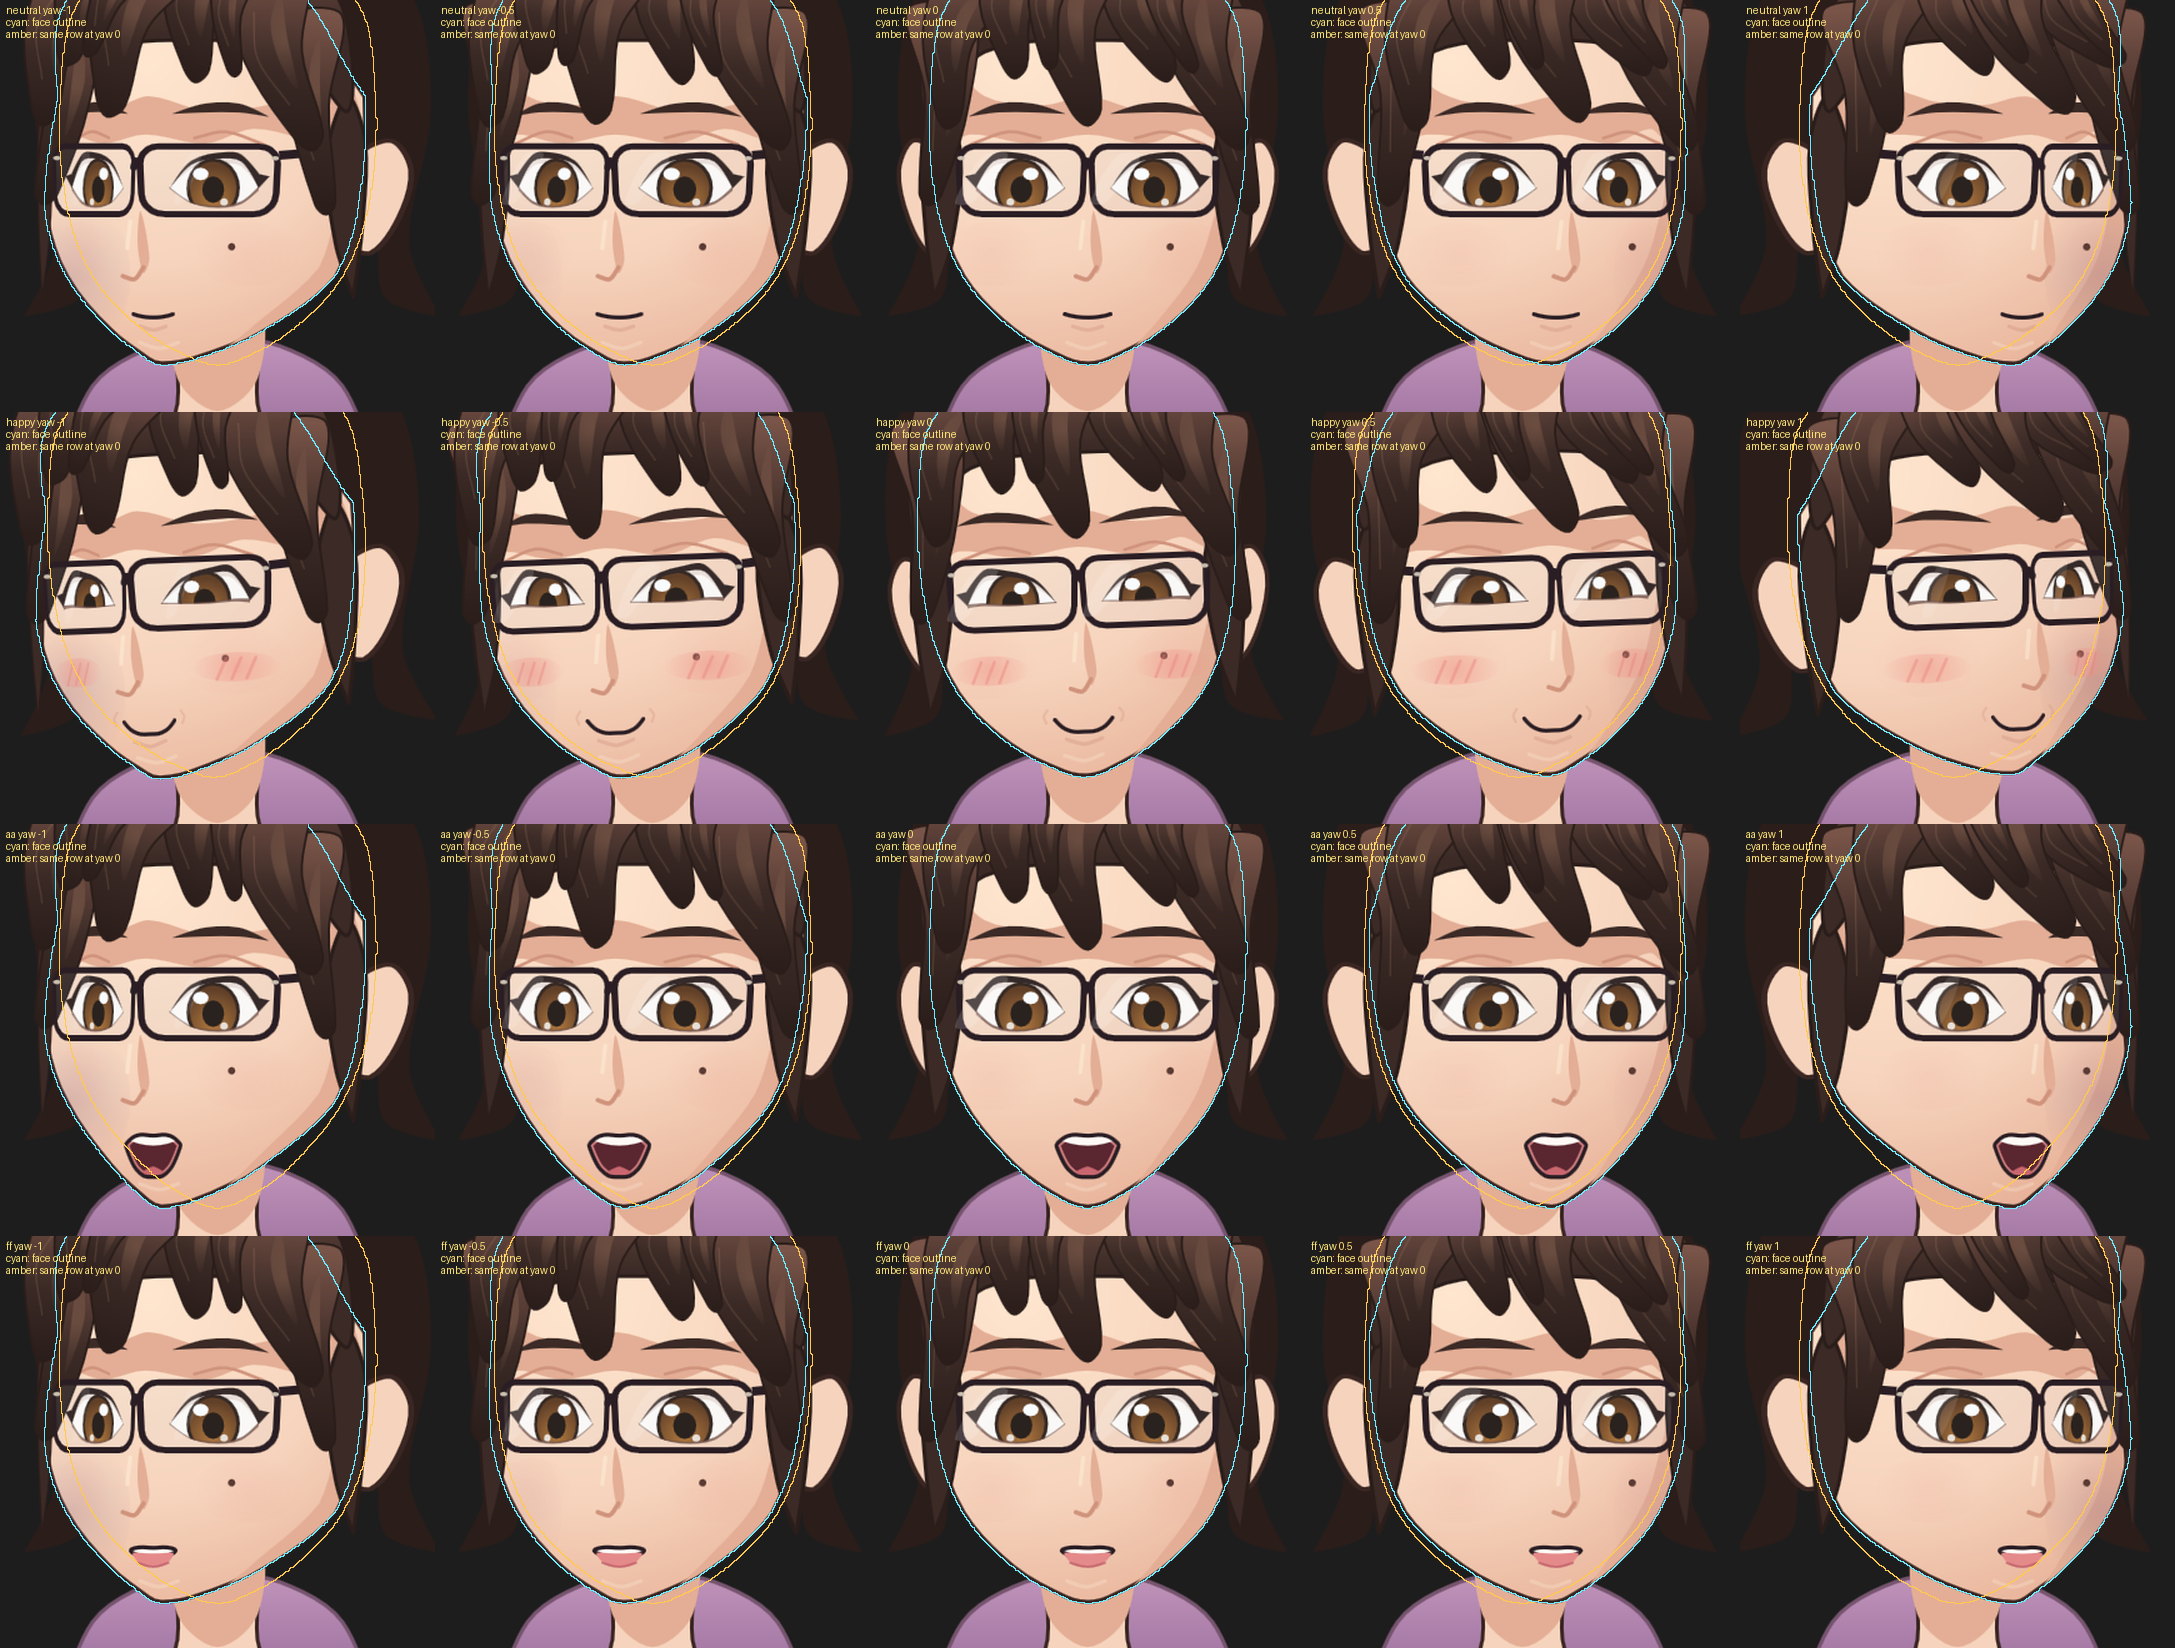
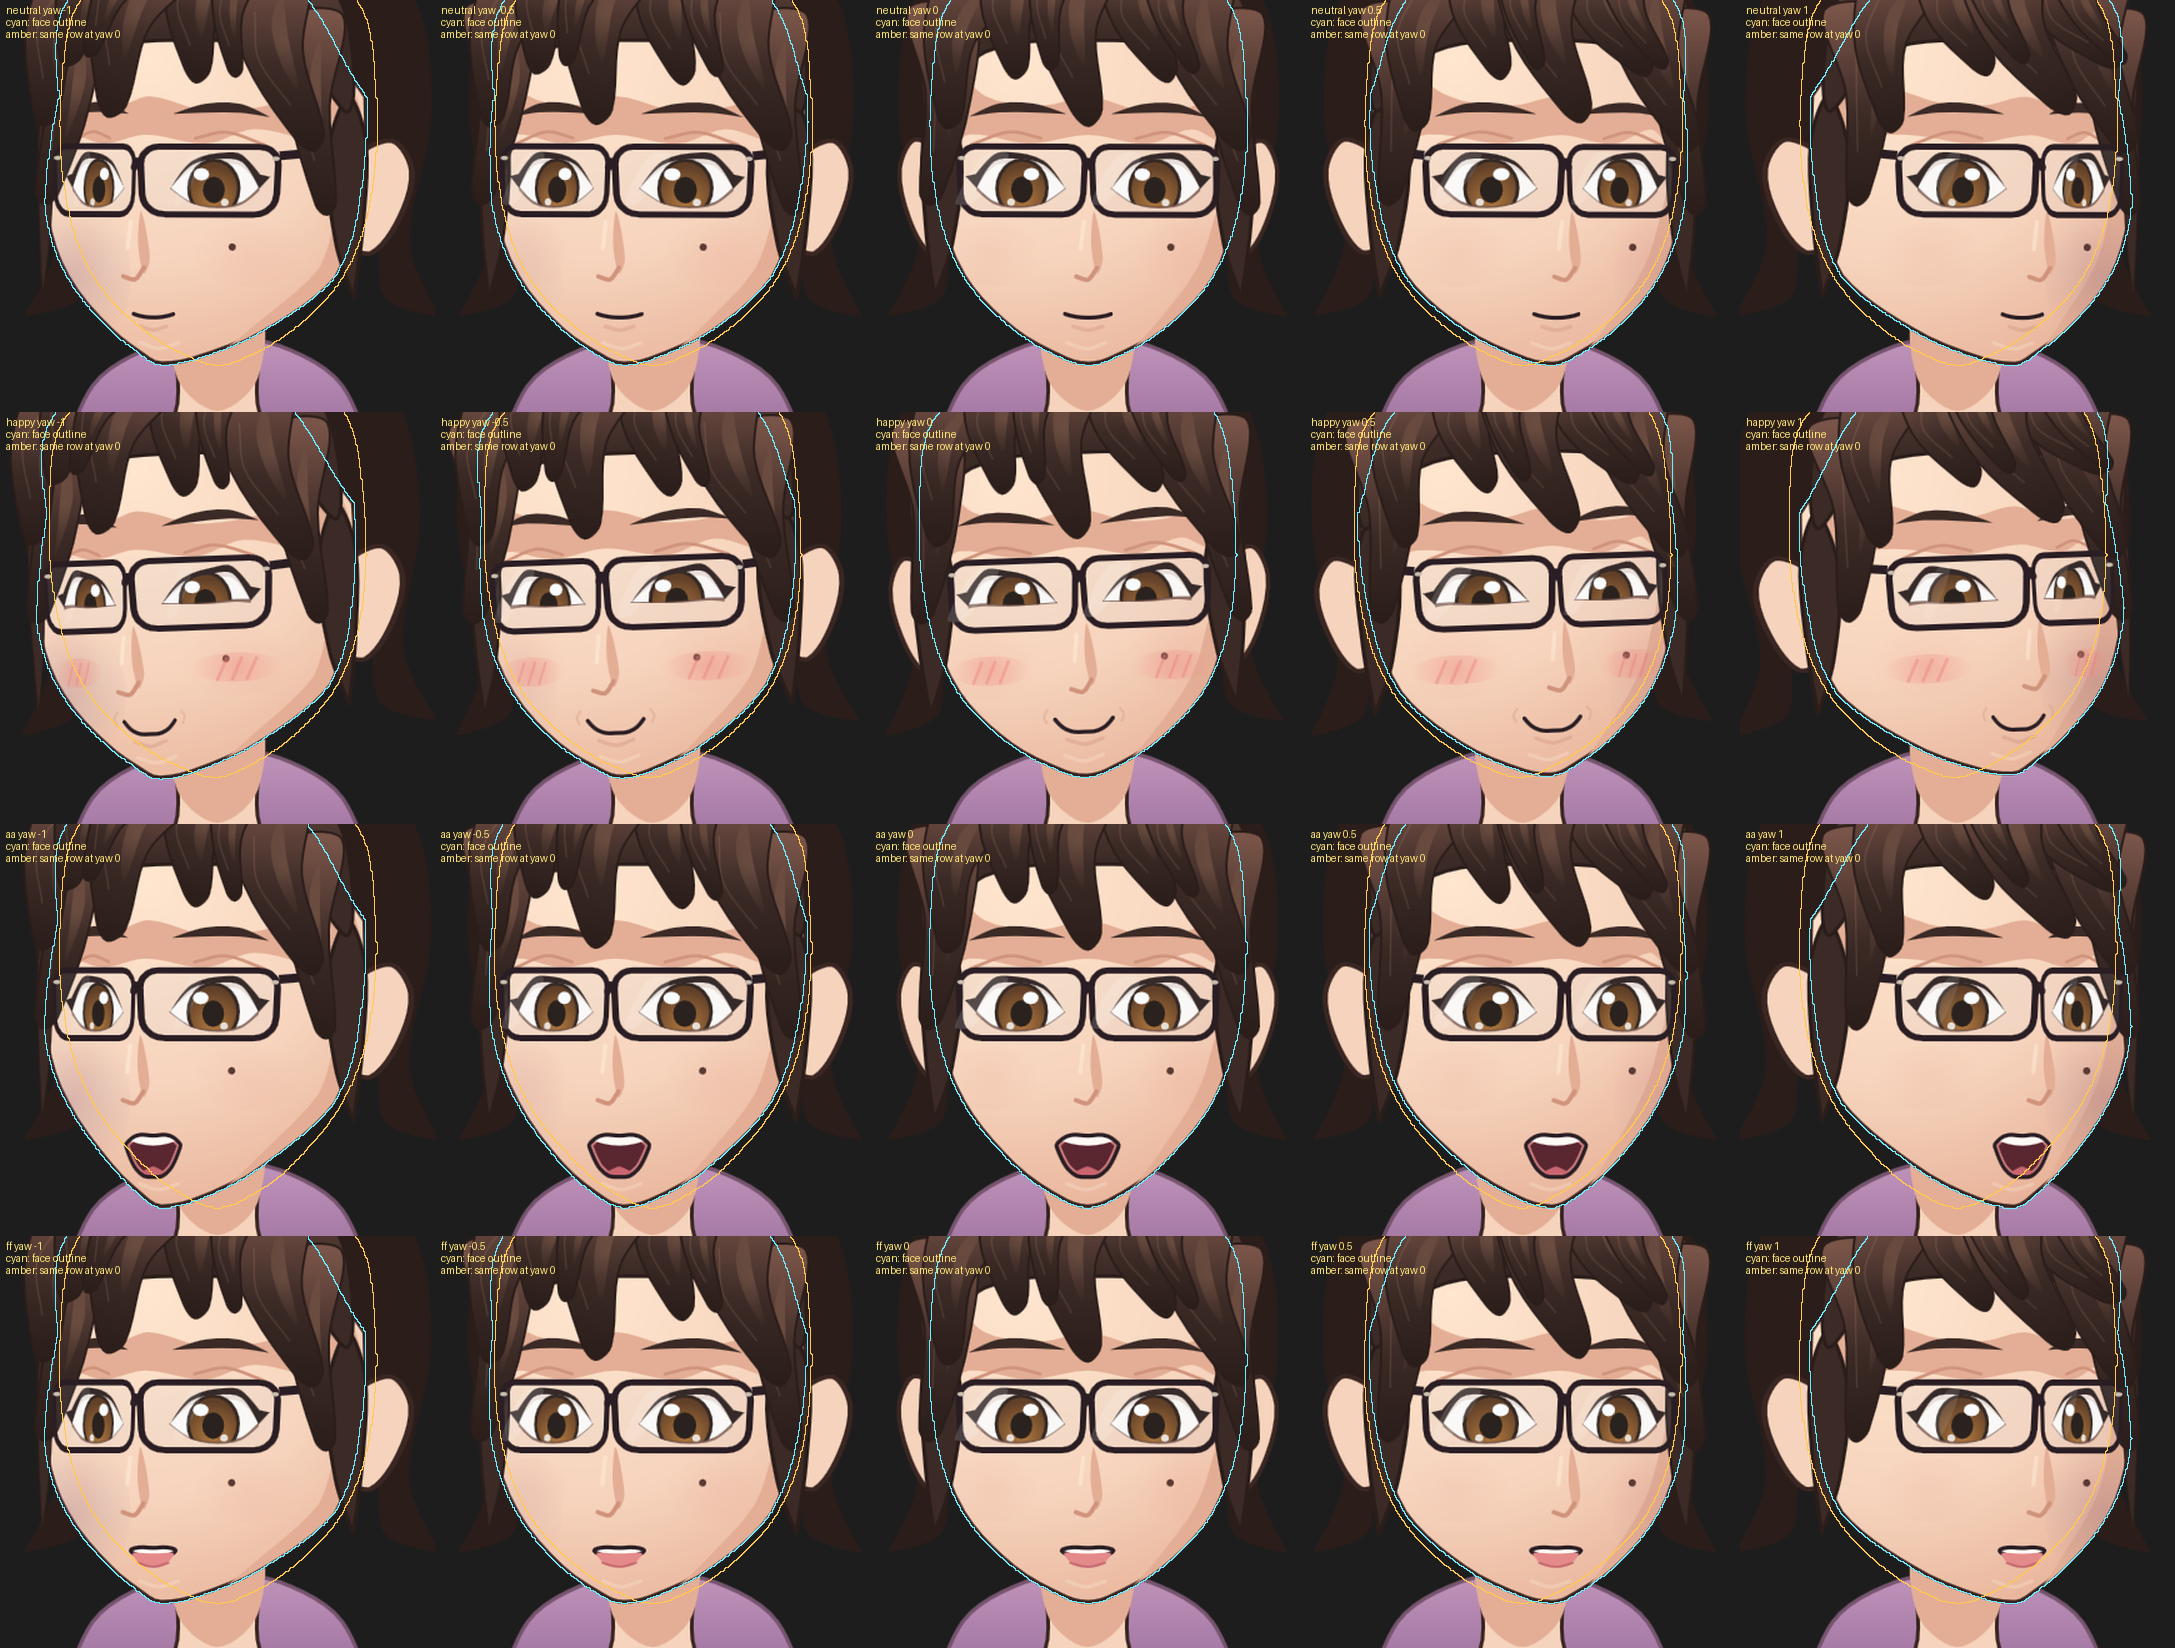
test(rive): history gates take the 1/255 renderer tolerance; round 2 evidence
The jaw now drives the outline bones, so every AU history gate shows the
same 1/255 antialiasing noise the turn gates already accept (ruling 13).
Clamp gates stay exact.

diff --git a/rive/tools/review_face.py b/rive/tools/review_face.py
@@ -344,7 +344,9 @@ def gates() -> None:
     different yaw / pitch history leaves a few dozen antialiasing pixels 1/255 apart (16-63 px; the
     pre-Task-6 file shows 23-48 px on the same captures: a renderer artefact, not a pose difference;
     even yaw 1 from the start vs yaw 1 set at frame 20 does it), so they pass when no channel
-    differs by more than 1."""
+    differs by more than 1. Since the jaw drives the outline bones (M3 critic round 1) every pose
+    goes through them, so the same 1/255 tolerance applies to every history gate; clamp gates stay
+    exact."""
     presets = json.loads((DATA / "presets.json").read_text())
     names = sorted({k for f in [*presets["moods"].values(), *presets["visemes"].values()]
                     for k in frame_data(f)} | {au(n, t) for n in SIDED for t in ("L", "R")})
@@ -396,7 +398,7 @@ def gates() -> None:
     bad = 0
     for (tag, cmp), j in zip(res, jobs):
         same = cmp.startswith("0.00% of pixels differ (0 of")
-        if tag.startswith("turn") and not same:
+        if "history" in tag and not same:
             delta = max(ImageChops.difference(Image.open(j[1]).convert("RGB"), Image.open(j[2]).convert("RGB"))
                         .getextrema(), key=lambda e: e[1])[1]
             same = delta <= 1

diff --git a/docs/superpowers/plans/2026-10-29-moonshot-m3.md b/docs/superpowers/plans/2026-10-29-moonshot-m3.md
@@ -81,7 +81,9 @@ overturned below). Open critiques: `rive/CRITIC_ITERATIONS.md` § "avatar face a
 13. **History-free tolerance for the turn (Task 6):** the CLI renderer differs by up to 1/255 per
     channel (16–63 px) for the same yaw/pitch pose reached from different histories, and the
     pre-M3 file shows the same noise (23–48 px). The turn gates accept ≤ 1/255; the AU and clamp
-    gates stay at exactly 0.00 %.
+    gates stay at exactly 0.00 %. Critic round 1 made the jaw drive the outline bones, so the AU
+    history gates show the same noise (33–39 px, max 1/255) and take the same tolerance; the
+    clamp gates stay exact.
 14. **Alignment threshold (review fix):** `costPerFrame` is normalised by the sounding frames
     (silent padding diluted wrong-text costs), and `maxAlignCost` moved from 0.5 to 0.55 on a
     40-sentence, 6-voice `say` set (39/40 right texts pass; a short French question falls back to
